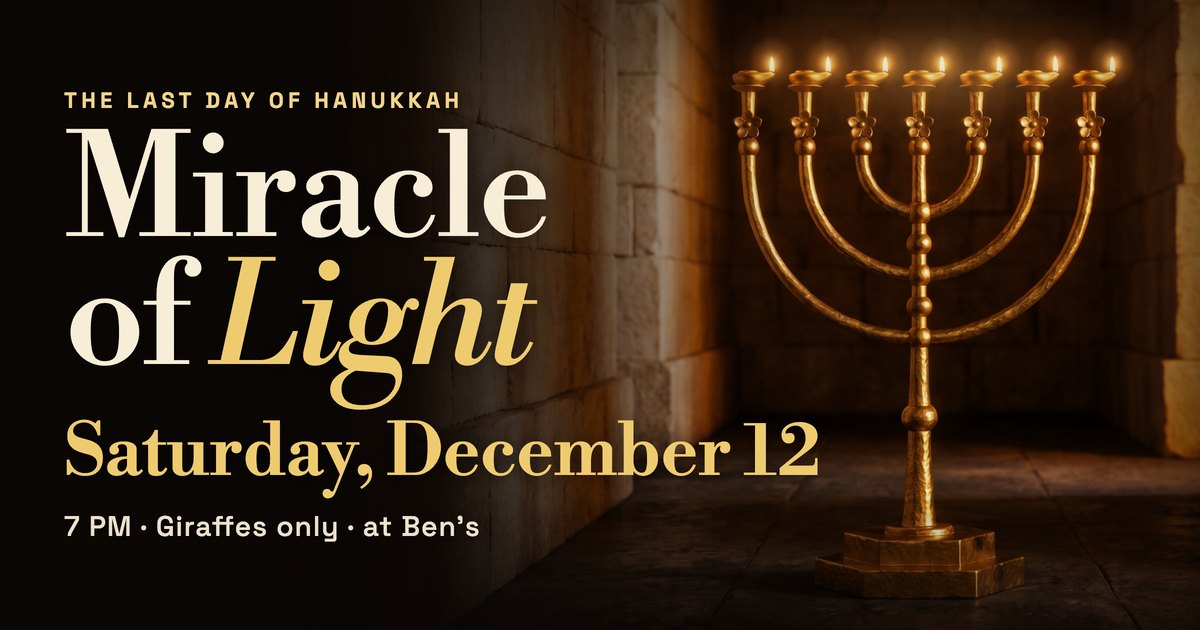
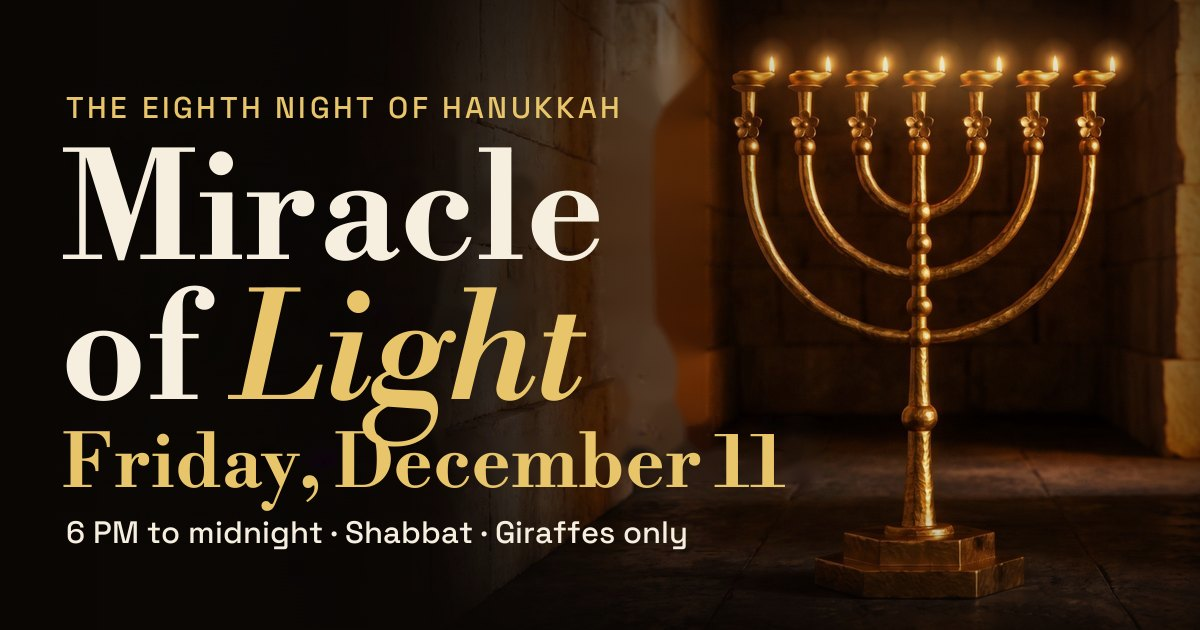
Share card: Miracle of Light moves to Friday December 11, 6 PM to midnight

Changed region(s): [[0.0308, 0.1206, 0.6783, 0.8746]]

diff --git a/miracle-of-light-dec-12/index.html b/miracle-of-light-dec-12/index.html
@@ -3,22 +3,22 @@
 <head>
 <meta charset="utf-8">
 <meta name="viewport" content="width=device-width, initial-scale=1">
-<title>Miracle of Light · Saturday, December 12 · The Oasis</title>
+<title>Miracle of Light · Friday, December 11 · The Oasis</title>
 
 <meta property="og:type" content="website">
 <meta property="og:site_name" content="The Oasis">
-<meta property="og:title" content="Miracle of Light · Saturday, December 12">
-<meta property="og:description" content="A night for Grateful Giraffes on the last day of Hanukkah, at Ben&#x27;s from 7 to 10 PM. All proceeds go to creating peaceful dialogue between Israelis and Palestinians.">
+<meta property="og:title" content="Miracle of Light · Friday, December 11">
+<meta property="og:description" content="Shabbat and the eighth night of Hanukkah, for Grateful Giraffes at Ben&#x27;s from 6 PM to midnight, ending in a dance party. All proceeds go to creating peaceful dialogue between Israelis and Palestinians.">
 <meta property="og:url" content="https://grateful.gg/miracle-of-light-dec-12/">
 <meta property="og:image" content="https://grateful.gg/miracle-of-light-dec-12/cover.jpg">
 <meta property="og:image:secure_url" content="https://grateful.gg/miracle-of-light-dec-12/cover.jpg">
 <meta property="og:image:type" content="image/jpeg">
 <meta property="og:image:width" content="1200">
 <meta property="og:image:height" content="630">
-<meta property="og:image:alt" content="Miracle of Light. A gold seven-branch menorah with all seven lamps lit in a stone hall. Saturday, December 12, 7 PM, Giraffes only, at Ben&#x27;s.">
+<meta property="og:image:alt" content="Miracle of Light. A gold menorah lit in a stone hall. Friday, December 11, 6 PM to midnight, Shabbat, Giraffes only.">
 <meta name="twitter:card" content="summary_large_image">
-<meta name="twitter:title" content="Miracle of Light · Saturday, December 12">
-<meta name="twitter:description" content="A night for Grateful Giraffes on the last day of Hanukkah, at Ben&#x27;s from 7 to 10 PM. All proceeds go to creating peaceful dialogue between Israelis and Palestinians.">
+<meta name="twitter:title" content="Miracle of Light · Friday, December 11">
+<meta name="twitter:description" content="Shabbat and the eighth night of Hanukkah, for Grateful Giraffes at Ben&#x27;s from 6 PM to midnight, ending in a dance party. All proceeds go to creating peaceful dialogue between Israelis and Palestinians.">
 <meta name="twitter:image" content="https://grateful.gg/miracle-of-light-dec-12/cover.jpg">
 
 <!-- Humans go to the real page; crawlers read the tags above first. The card
@@ -46,8 +46,8 @@
 </head>
 <body>
   <main class="card">
-    <img src="https://grateful.gg/miracle-of-light-dec-12/cover.jpg" alt="Miracle of Light. A gold seven-branch menorah with all seven lamps lit in a stone hall. Saturday, December 12, 7 PM, Giraffes only, at Ben&#x27;s." width="1200" height="630">
-    <div class="b"><h1>Miracle of Light · Saturday, December 12</h1><p>A night for Grateful Giraffes on the last day of Hanukkah, at Ben&#x27;s from 7 to 10 PM. All proceeds go to creating peaceful dialogue between Israelis and Palestinians.</p>
+    <img src="https://grateful.gg/miracle-of-light-dec-12/cover.jpg" alt="Miracle of Light. A gold menorah lit in a stone hall. Friday, December 11, 6 PM to midnight, Shabbat, Giraffes only." width="1200" height="630">
+    <div class="b"><h1>Miracle of Light · Friday, December 11</h1><p>Shabbat and the eighth night of Hanukkah, for Grateful Giraffes at Ben&#x27;s from 6 PM to midnight, ending in a dance party. All proceeds go to creating peaceful dialogue between Israelis and Palestinians.</p>
     <a class="btn" href="https://app.grateful.gg/miracle-of-light-dec-12">Open the event &rarr;</a></div>
   </main>
 </body>
